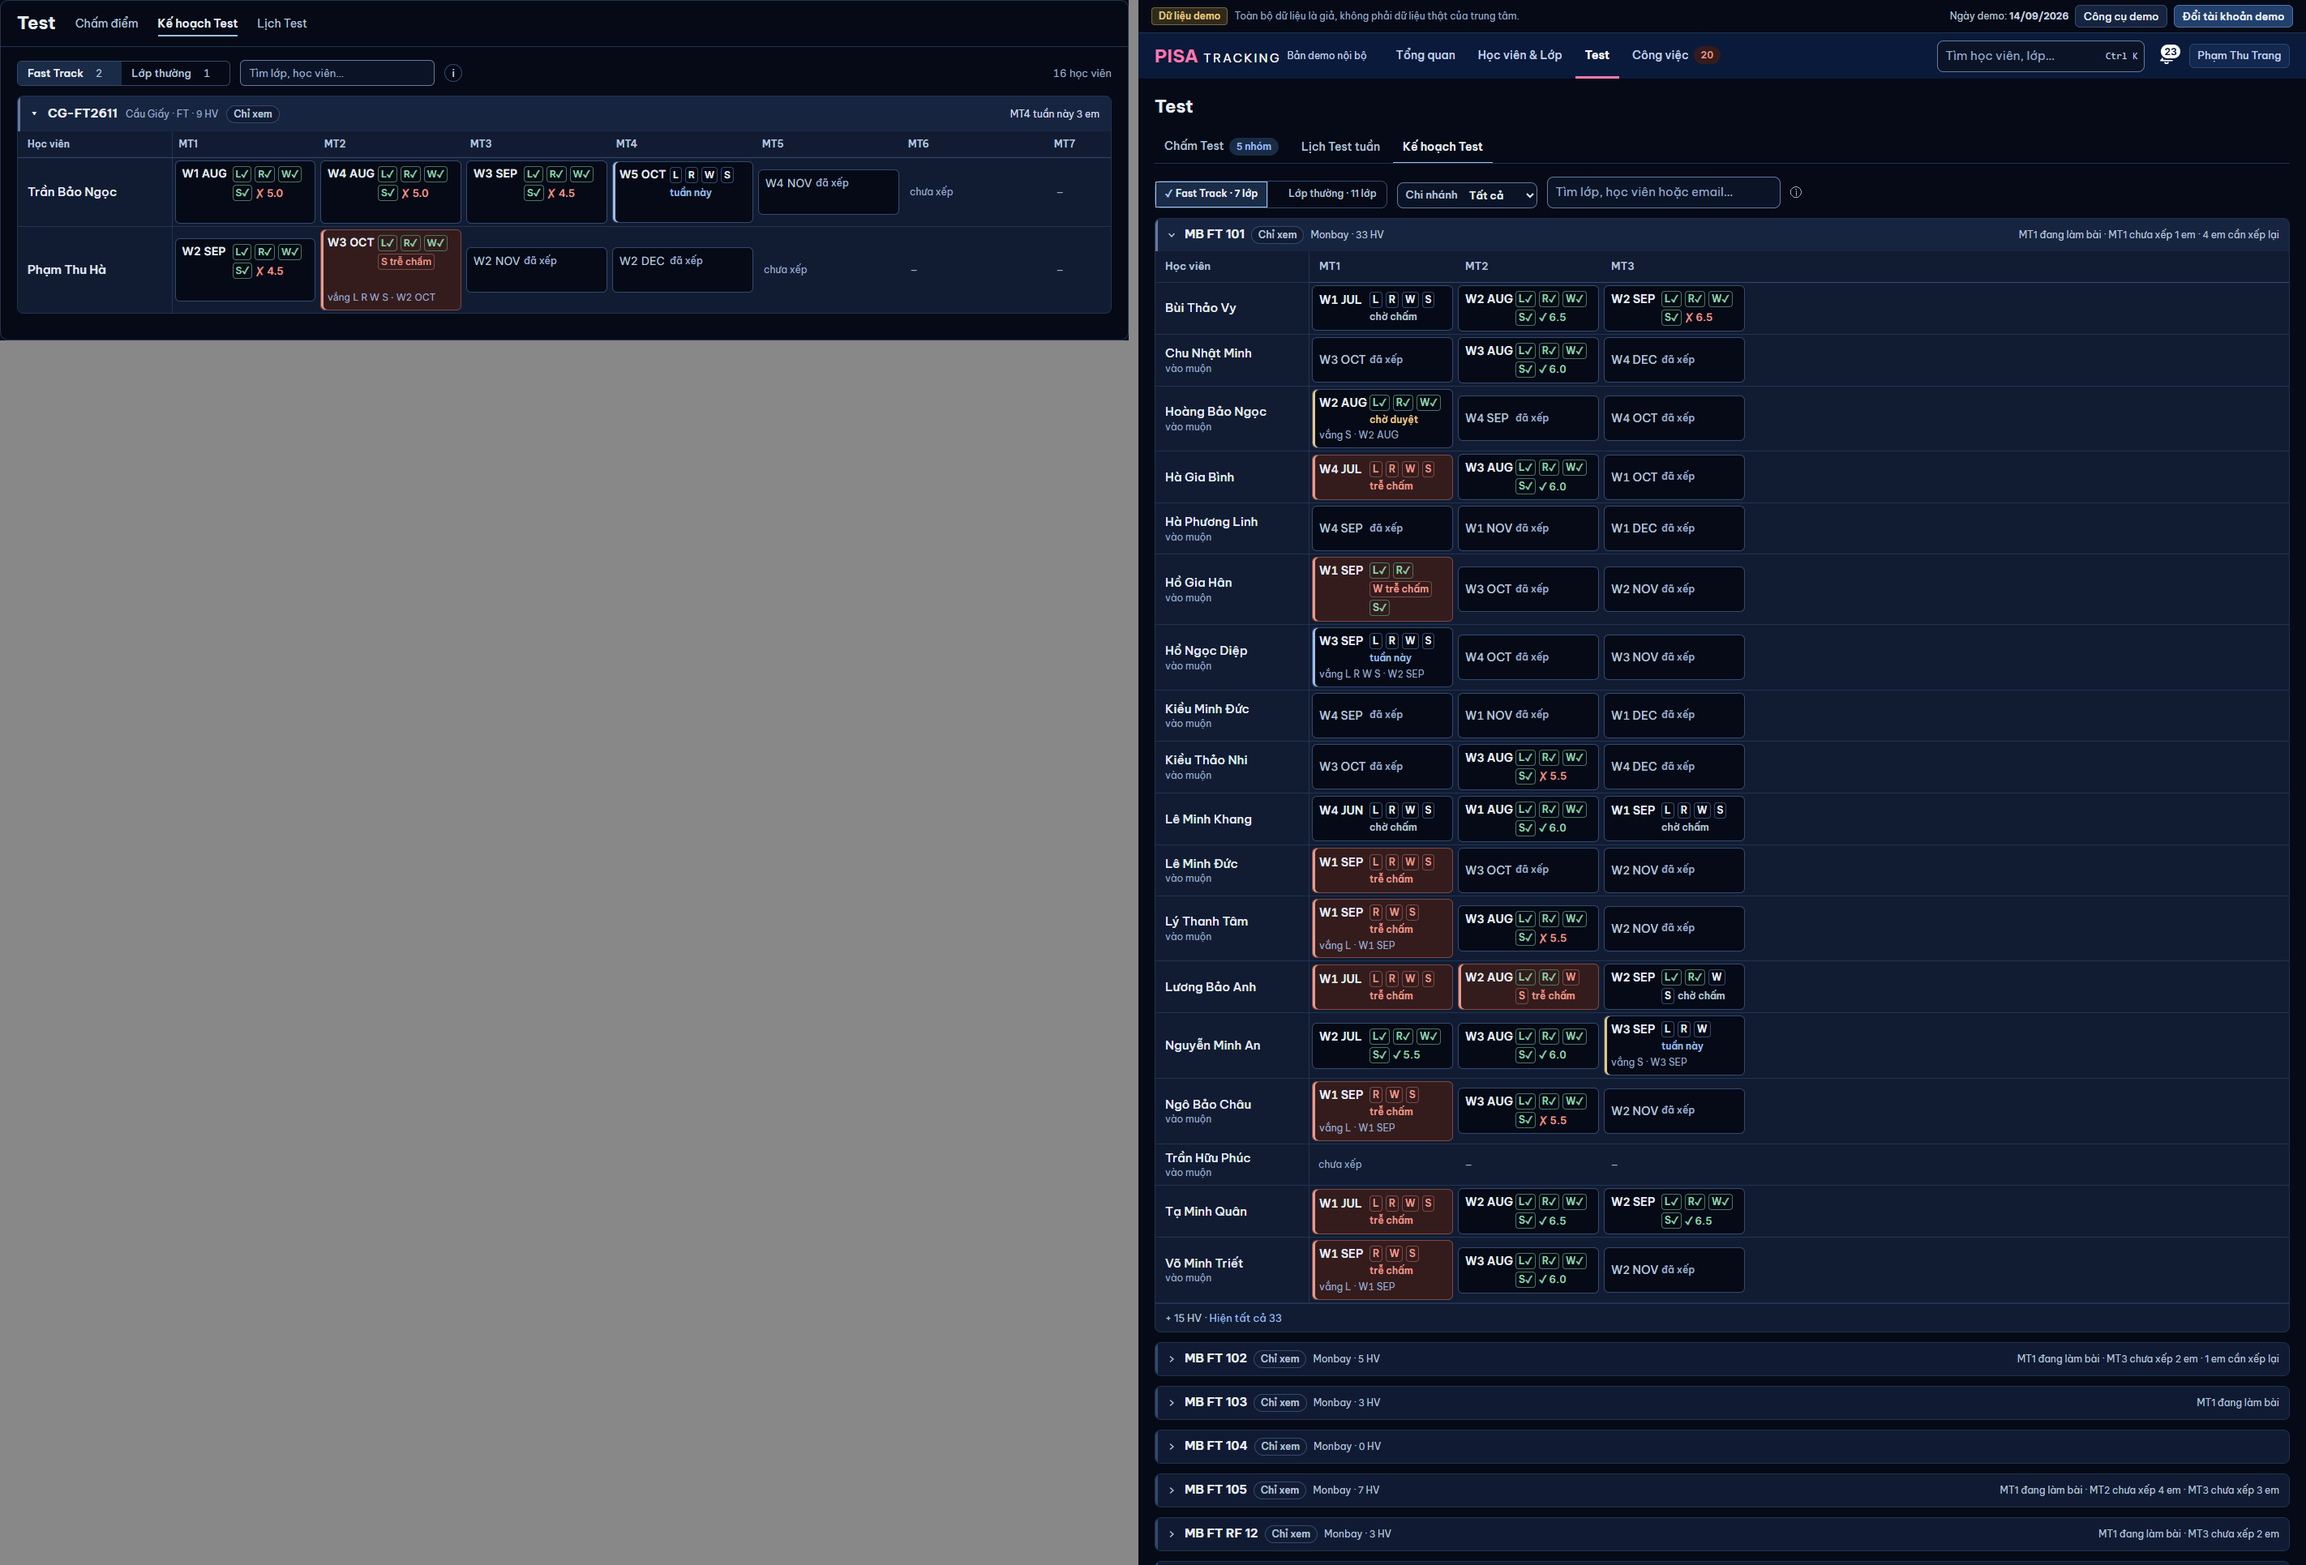
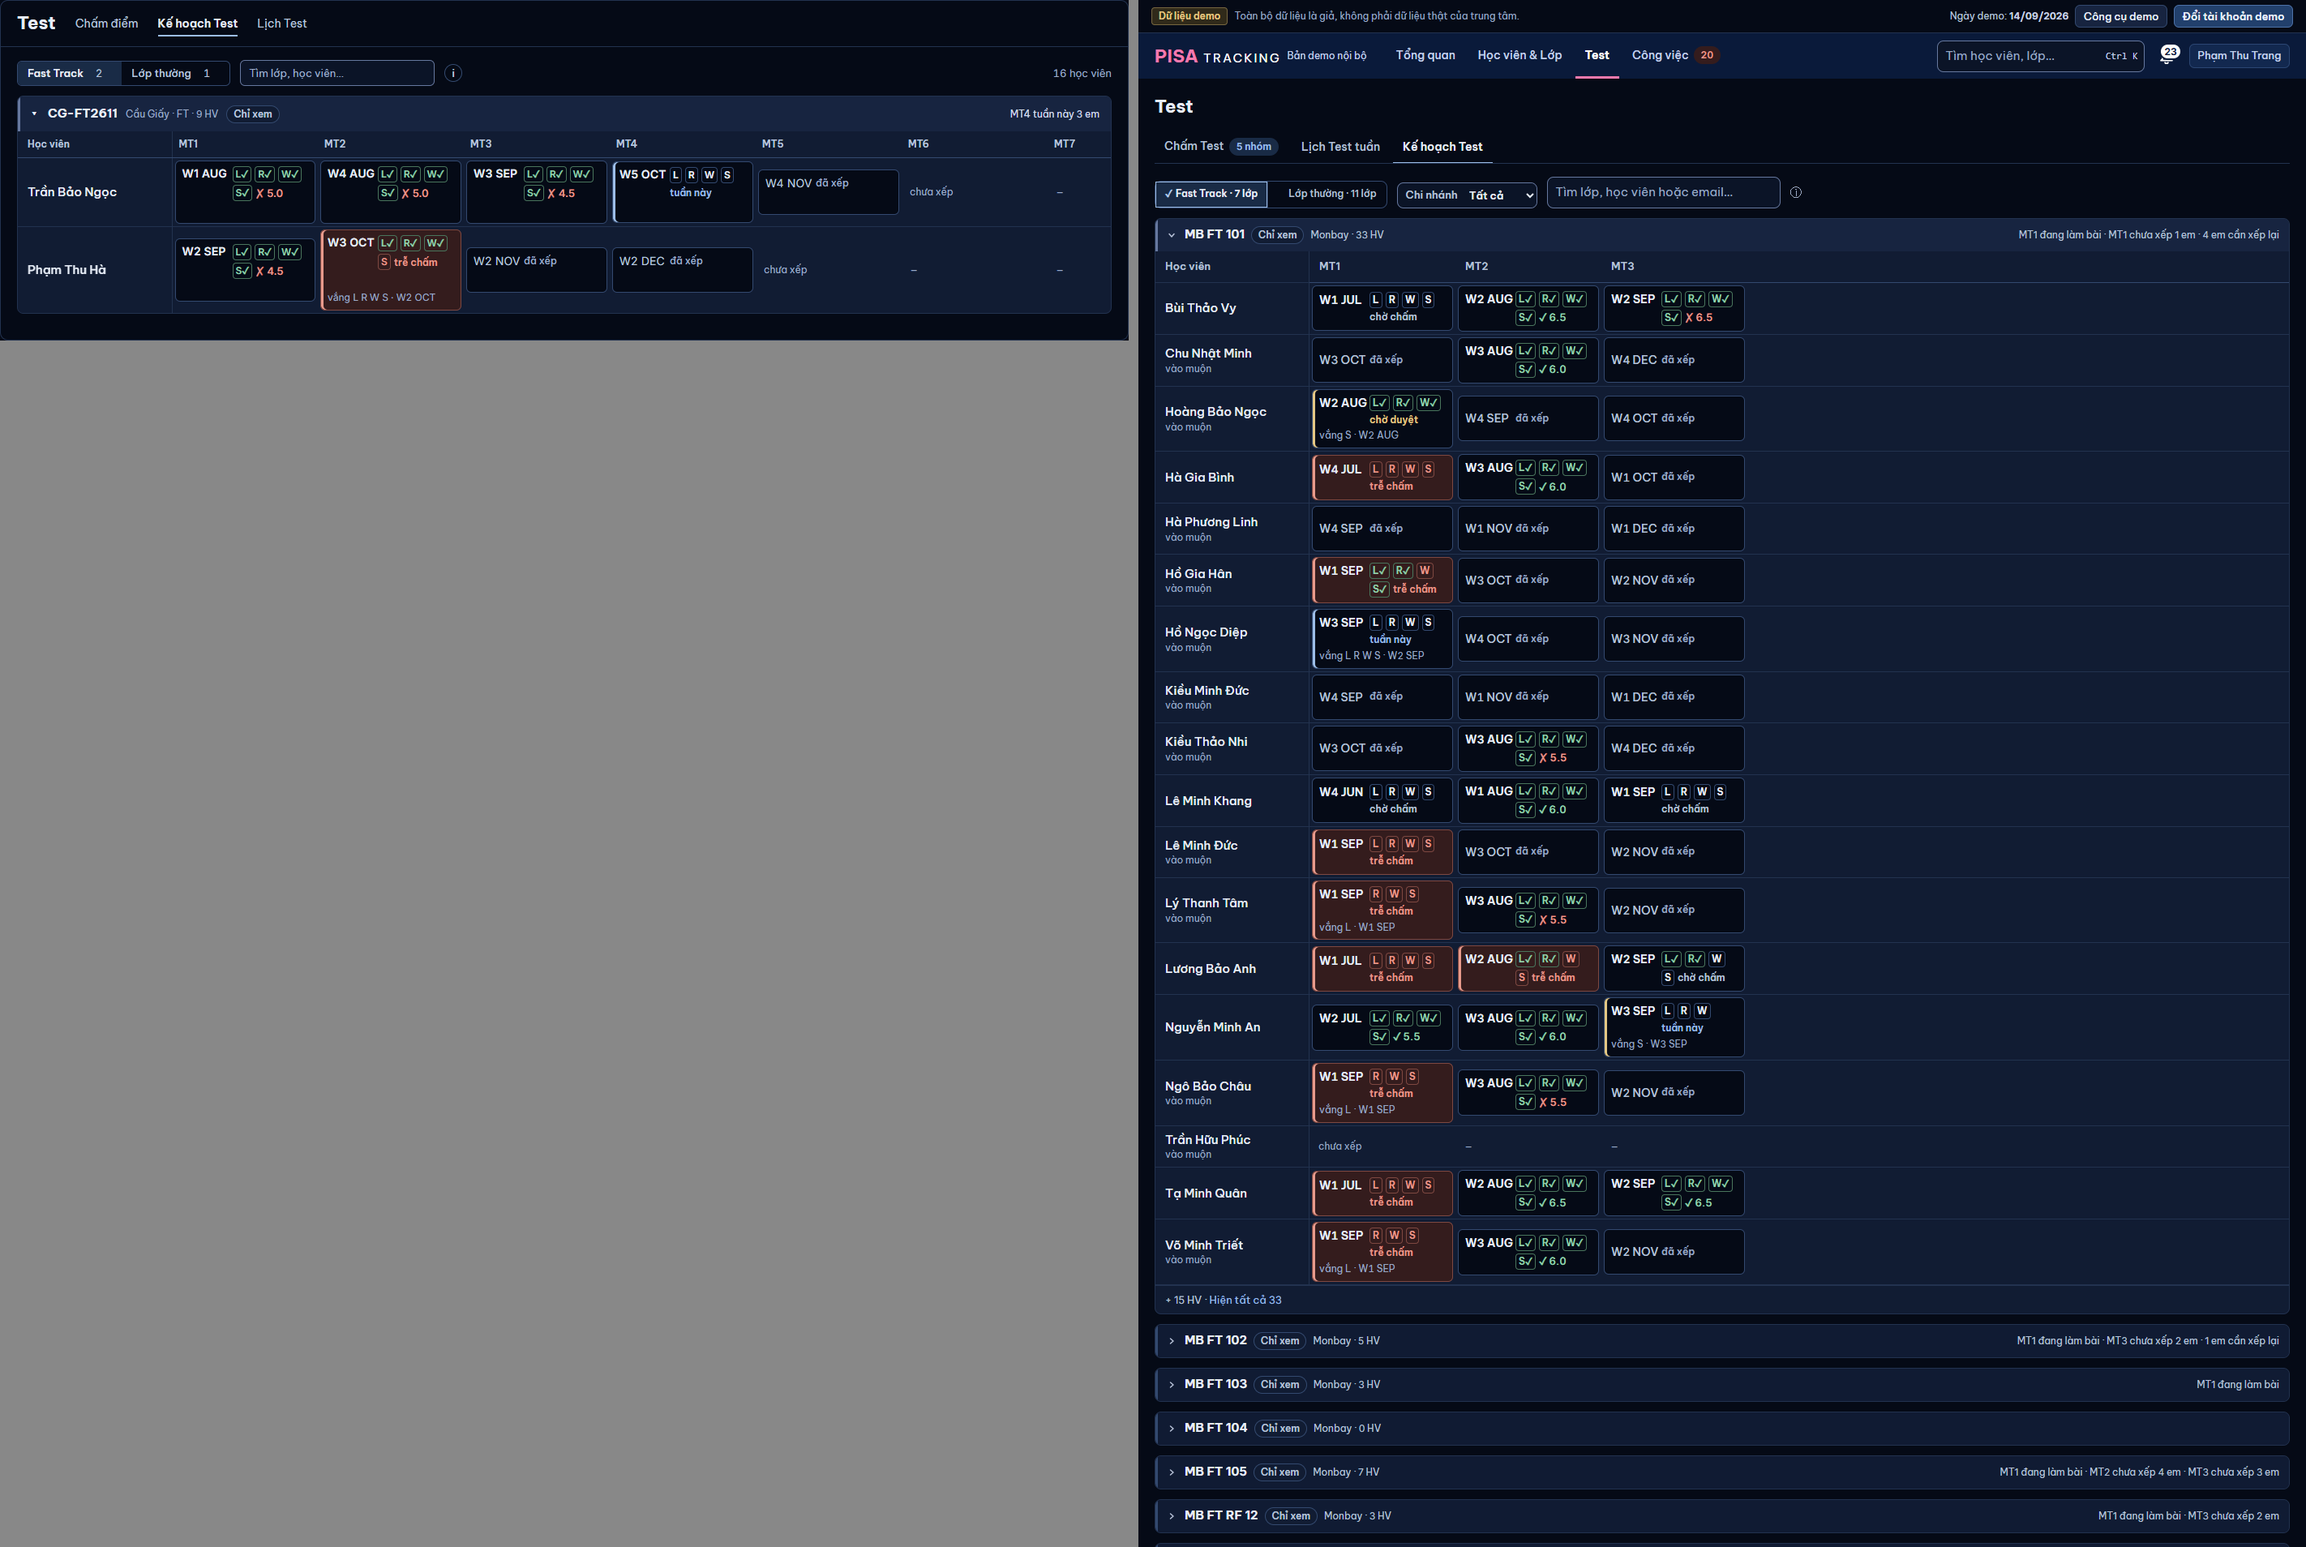
KHT-GON (PTA 28/10): 'trễ chấm' luôn cuối dòng tuần (môn trễ chỉ viền đỏ), tooltip / câu đọc điểm tổng kèm kỳ vọng; mockup + ảnh cặp + khop-khac; gộp main (#671)

diff --git a/thiet-ke/v7/ke-hoach-test.html b/thiet-ke/v7/ke-hoach-test.html
@@ -200,7 +200,7 @@ button.o.xep:hover { background: transparent; } button.o.xep:hover span { border
 <div class="ct">
   <h2>Ý chính (ngoài giao diện) — phương án chủ SP chốt 28/10</h2>
   <ul>
-    <li><b>Ô MT chia dòng theo tuần thi:</b> tuần đậm (cột 58 px) + các môn thi tuần đó, mỗi môn một ô nhỏ có khung: <i class="mon co">L✓</i> có điểm · <i class="mon">L</i> chưa có điểm · <i class="mon tre">S trễ chấm</i> trễ chấm (nhiều môn trễ cùng dòng: ô đỏ + "trễ chấm" MỘT lần cuối dòng). Môn thi tuần khác → dòng riêng với tuần của nó.</li>
+    <li><b>Ô MT chia dòng theo tuần thi:</b> tuần đậm (cột 58 px) + các môn thi tuần đó, mỗi môn một ô nhỏ có khung: <i class="mon co">L✓</i> có điểm · <i class="mon">L</i> chưa có điểm · <i class="mon tre">S</i> trễ chấm (ô viền đỏ; chữ "trễ chấm" MỘT lần cuối dòng tuần, kể cả chỉ một môn trễ). Môn thi tuần khác → dòng riêng với tuần của nó.</li>
     <li><b>Trạng thái dòng:</b> đã xếp (mờ) · tuần này · chờ chấm · xếp lại S. Điểm tổng <b>✓ 6.0 / ✗ 4.5</b> sau các môn.</li>
     <li><b>Vắng</b> chữ thường, mờ, dòng cuối: <span class="so">vắng S · W2 OCT</span> · <span class="so">vắng L R W S · W2 OCT</span> — LUÔN ghi, kể cả đã đủ điểm. Đợt chỉ thi vài môn: <span class="so">· không thi W S</span>.</li>
     <li><b>MT tương lai</b> (chưa tới tuần): chỉ tuần + "đã xếp", không hàng môn. Chỉ MT kế tiếp có "Xếp MTn"; MT sau "–".</li>
@@ -271,7 +271,7 @@ button.o.xep:hover { background: transparent; } button.o.xep:hover span { border
         <tr>
           <td class="ten"><a href="#">Phạm Thu Hà</a></td>
           <td><button class="o"><span class="d1"><span class="tuan">W2 SEP</span><span class="d1r"><i class="mon co">L✓</i><i class="mon co">R✓</i><i class="mon co">W✓</i><i class="mon co">S✓</i><span class="kq chua">✗ 4.5</span></span></span></button></td>
-          <td><button class="o tre"><span class="d1"><span class="tuan">W3 OCT</span><span class="d1r"><i class="mon co">L✓</i><i class="mon co">R✓</i><i class="mon co">W✓</i><i class="mon tre">S trễ chấm</i></span></span><span class="ghi so">vắng L R W S · W2 OCT</span></button></td>
+          <td><button class="o tre"><span class="d1"><span class="tuan">W3 OCT</span><span class="d1r"><i class="mon co">L✓</i><i class="mon co">R✓</i><i class="mon co">W✓</i><i class="mon tre">S</i><span class="tt tre">trễ chấm</span></span></span><span class="ghi so">vắng L R W S · W2 OCT</span></button></td>
           <td><button class="o"><span class="d1"><span class="tuan mo">W2 NOV</span><span class="d1r"><span class="tt xep">đã xếp</span></span></span></button></td>
           <td><button class="o"><span class="d1"><span class="tuan mo">W2 DEC</span><span class="d1r"><span class="tt xep">đã xếp</span></span></span></button></td>
           <td><button class="o xep"><span>Xếp MT5</span></button></td>
@@ -359,7 +359,7 @@ button.o.xep:hover { background: transparent; } button.o.xep:hover span { border
         <tr>
           <td class="ten"><a href="#">Phạm Thu Hà</a></td>
           <td><a class="o" href="#"><span class="d1"><span class="tuan">W2 SEP</span><span class="d1r"><i class="mon co">L✓</i><i class="mon co">R✓</i><i class="mon co">W✓</i><i class="mon co">S✓</i><span class="kq chua">✗ 4.5</span></span></span></a></td>
-          <td><a class="o tre" href="#"><span class="d1"><span class="tuan">W3 OCT</span><span class="d1r"><i class="mon co">L✓</i><i class="mon co">R✓</i><i class="mon co">W✓</i><i class="mon tre">S trễ chấm</i></span></span><span class="ghi so">vắng L R W S · W2 OCT</span></a></td>
+          <td><a class="o tre" href="#"><span class="d1"><span class="tuan">W3 OCT</span><span class="d1r"><i class="mon co">L✓</i><i class="mon co">R✓</i><i class="mon co">W✓</i><i class="mon tre">S</i><span class="tt tre">trễ chấm</span></span></span><span class="ghi so">vắng L R W S · W2 OCT</span></a></td>
           <td><a class="o" href="#"><span class="d1"><span class="tuan mo">W2 NOV</span><span class="d1r"><span class="tt xep">đã xếp</span></span></span></a></td>
           <td><a class="o" href="#"><span class="d1"><span class="tuan mo">W2 DEC</span><span class="d1r"><span class="tt xep">đã xếp</span></span></span></a></td>
           <td><span class="trong chua" title="MT5 chưa xếp — Quản lý xếp">chưa xếp</span></td>
@@ -499,7 +499,7 @@ button.o.xep:hover { background: transparent; } button.o.xep:hover span { border
           <tbody>
         <tr>
           <td class="ten"><a href="#">Phạm Thu Hà</a></td>
-          <td><a class="o tre" href="#"><span class="d1"><span class="tuan">W3 OCT</span><span class="d1r"><i class="mon co">L✓</i><i class="mon co">R✓</i><i class="mon co">W✓</i><i class="mon tre">S trễ chấm</i></span></span><span class="ghi so">vắng L R W S · W2 OCT</span></a></td>
+          <td><a class="o tre" href="#"><span class="d1"><span class="tuan">W3 OCT</span><span class="d1r"><i class="mon co">L✓</i><i class="mon co">R✓</i><i class="mon co">W✓</i><i class="mon tre">S</i><span class="tt tre">trễ chấm</span></span></span><span class="ghi so">vắng L R W S · W2 OCT</span></a></td>
           <td><a class="o" href="#"><span class="d1"><span class="tuan mo">W2 NOV</span><span class="d1r"><span class="tt xep">đã xếp</span></span></span></a></td>
           <td><a class="o" href="#"><span class="d1"><span class="tuan mo">W2 DEC</span><span class="d1r"><span class="tt xep">đã xếp</span></span></span></a></td>
         </tr>

diff --git a/web/src/modules/test/keHoach/ChipKyNang.tsx b/web/src/modules/test/keHoach/ChipKyNang.tsx
@@ -34,7 +34,7 @@ export function ODotGon({ o, nhan, ketQua, khoa, chon, onMo, href, tinh = false,
   /** Tên đợt đọc màn (`MT3`, `Progress Test`). */
   nhan: string;
   /** FT đợt xong: Overall + đạt kỳ vọng (null: không có kỳ vọng). */
-  ketQua?: { ovr: number; dat: boolean | null } | null;
+  ketQua?: { ovr: number; dat: boolean | null; kyVong?: number | null } | null;
   /** Lớp thường: tuần trong khoá (`W4/8`) của tuần chính. */
   khoa?: { khaiGiang: string | null; tongTuan: number | null; tuan: string | null } | null;
   chon?: boolean;
@@ -51,7 +51,7 @@ export function ODotGon({ o, nhan, ketQua, khoa, chon, onMo, href, tinh = false,
   const doc = [
     nhan,
     ...o.dong.map((d) => [d.tuanDu ?? t('chưa xếp'), ...d.mon.map((m) => `${m.ten} ${CHU_MON[m.loai]}`), d.tt?.chu].filter(Boolean).join(' ')),
-    kq ? `${kq.dat === null ? '' : kq.dat ? '✓ ' : '✗ '}${t('Overall')} ${fmtBand(kq.ovr)}` : o.tt && o.tt.loai !== 'xong' ? o.tt.chu : null,
+    kq ? `${kq.dat === null ? '' : kq.dat ? '✓ ' : '✗ '}${t('Overall')} ${fmtBand(kq.ovr)}${kq.kyVong != null ? ` · ${t('kỳ vọng')} ${fmtBand(kq.kyVong)}` : ''}` : o.tt && o.tt.loai !== 'xong' ? o.tt.chu : null,
     o.khongThi, o.vang,
   ].filter(Boolean).join(', ');
   /* Chủ SP 28/10: khung ô MT rõ hẳn — viền mảnh + nền tối hơn thẻ (`--bg`); ô trễ chấm vẫn nền đỏ nhạt (VACH đè). */
@@ -64,9 +64,9 @@ export function ODotGon({ o, nhan, ketQua, khoa, chon, onMo, href, tinh = false,
     <>
       {o.dong.map((d, i) => {
         const mo = d.tt?.loai === 'xep';   // tuần tương lai: tuần mờ
-        /* Nhiều môn trễ cùng dòng: ô môn đỏ + "trễ chấm" MỘT lần ở cuối dòng; một môn trễ: "S trễ chấm" ngay trong ô môn. */
-        const soTre = d.mon.filter((m) => m.loai === 'tre').length;
-        const tt = soTre > 1 ? { chu: t('trễ chấm'), loai: 'tre' as const } : i === 0 && ttO && !d.tt ? ttO : d.tt;
+        /* PTA 28/10 — một luật: môn trễ = ô viền đỏ, chữ "trễ chấm" MỘT lần ở cuối dòng tuần (kể cả chỉ một môn trễ). */
+        const coTre = d.mon.some((m) => m.loai === 'tre');
+        const tt = coTre ? { chu: t('trễ chấm'), loai: 'tre' as const } : i === 0 && ttO && !d.tt ? ttO : d.tt;
         return (
           /* PTA 28/10: cột tuần 58 px cố định; môn / chữ không đủ chỗ thì xuống dòng THỤT dưới cột môn (không nới cột, không cuộn ngang). */
           <span key={d.tuanDu ?? `chua-${i}`} className="grid min-w-0 grid-cols-[58px_minmax(0,1fr)] items-start gap-x-1">
@@ -76,7 +76,7 @@ export function ODotGon({ o, nhan, ketQua, khoa, chon, onMo, href, tinh = false,
             {o.hienMon && d.mon.map((m) => (
               <span key={m.k} title={`${m.ten} · ${CHU_MON[m.loai]}`}
                 className={`inline-flex h-5 items-center whitespace-nowrap rounded border px-[3px] text-xs font-semibold leading-none tabular-nums ${O_MON[m.loai]}`}>
-                {m.ten}{m.loai === 'co' ? '✓' : m.loai === 'tre' && soTre === 1 ? ` ${t('trễ chấm')}` : ''}
+                {m.ten}{m.loai === 'co' ? '✓' : ''}
               </span>
             ))}
             {i === 0 && kq ? (

diff --git a/web/src/modules/test/keHoach/LuoiKeHoach.tsx b/web/src/modules/test/keHoach/LuoiKeHoach.tsx
@@ -148,7 +148,7 @@ export function LuoiKeHoach({ loai, data, onReload, onHienDien, chiCanXepLai = f
                       const g = oGon(dot.kn, homNay, ct);
                       if (!g) return <OTrong title={t('Đợt này không có kỹ năng nào')} />;
                       const d = dot as DotFT;
-                      const kq = loai === 'ft' && d.ovr !== undefined ? { ovr: d.ovr, dat: d.kyVong == null ? null : d.ovr >= d.kyVong } : null;
+                      const kq = loai === 'ft' && d.ovr !== undefined ? { ovr: d.ovr, dat: d.kyVong == null ? null : d.ovr >= d.kyVong, kyVong: d.kyVong ?? null } : null;
                       const tuanChinh = Object.values(dot.kn).map((x) => x?.tuan).filter((w): w is string => !!w).sort()[0] ?? null;
                       return (
                         <ODotGon o={g} nhan={nhanDot(c.dot)} ketQua={kq} onMo={moHop} href={trangLuot}

diff --git a/docs/anh/kht-gon/khop-khac.md b/docs/anh/kht-gon/khop-khac.md
@@ -20,7 +20,7 @@ Dữ liệu mockup là dữ liệu giả (Cầu Giấy, MT1–MT7); web là seed
 |---|---|---|
 | Ô MT: tuần (cột 56 px, 14 / 600, không năm) + kết quả `✓ 6.0` 13 / 600 hoặc một chữ 12 / 600 cùng một x | `ODotGon` (`ChipKyNang.tsx`), nội dung `oGon` (`shared/domain/oMt.ts`) | KHỚP |
 | Đã xếp, chưa tới tuần: chỉ tuần mờ, bỏ "đã xếp" | `oGon` `tt = null` → tuần `font-medium text-dim` | KHỚP |
-| Ô MT chia DÒNG THEO TUẦN THI (chủ SP chốt 28/10): tuần đậm 58 px + ô môn có khung `L✓` (có điểm) · `L` (chưa điểm) · `S trễ chấm` (nhiều môn trễ: ô đỏ + "trễ chấm" một lần) + trạng thái dòng (đã xếp / tuần này / chờ chấm); điểm tổng sau các môn; môn tuần khác → dòng riêng; "· không thi W S"; MT tương lai một tuần → chỉ tuần + "đã xếp" | `oGon.dong` · `ODotGon` | KHỚP |
+| Ô MT chia DÒNG THEO TUẦN THI (chủ SP chốt 28/10): tuần đậm 58 px + ô môn có khung `L✓` (có điểm) · `L` (chưa điểm) · ô môn trễ viền đỏ + chữ "trễ chấm" MỘT lần cuối dòng tuần (PTA 28/10, kể cả chỉ một môn trễ) + trạng thái dòng (đã xếp / tuần này / chờ chấm); điểm tổng sau các môn (tooltip / câu đọc có kỳ vọng); môn tuần khác → dòng riêng; "· không thi W S"; MT tương lai một tuần → chỉ tuần + "đã xếp" | `oGon.dong` · `ODotGon` | KHỚP |
 | Vắng chữ thường dòng cuối: `vắng L R W S · W2 OCT`; LUÔN ghi, kể cả đã đủ điểm (chủ SP 28/10 mới nhất) | `oGon.vang` | KHỚP |
 | Khung ô MT rõ: viền `--line-strong` + nền `--bg` tối hơn thẻ; ô trễ chấm nền + viền đỏ nhạt (chủ SP 28/10 "khung MT rõ hẳn, màu tối xuống") | `ODotGon` | KHỚP |
 | Vạch trái: tuần này xanh · trễ chấm đỏ + nền đỏ nhạt · xếp lại vàng; không khung ô | `VACH` (`--doing/--bad/--soon`) | KHỚP |
